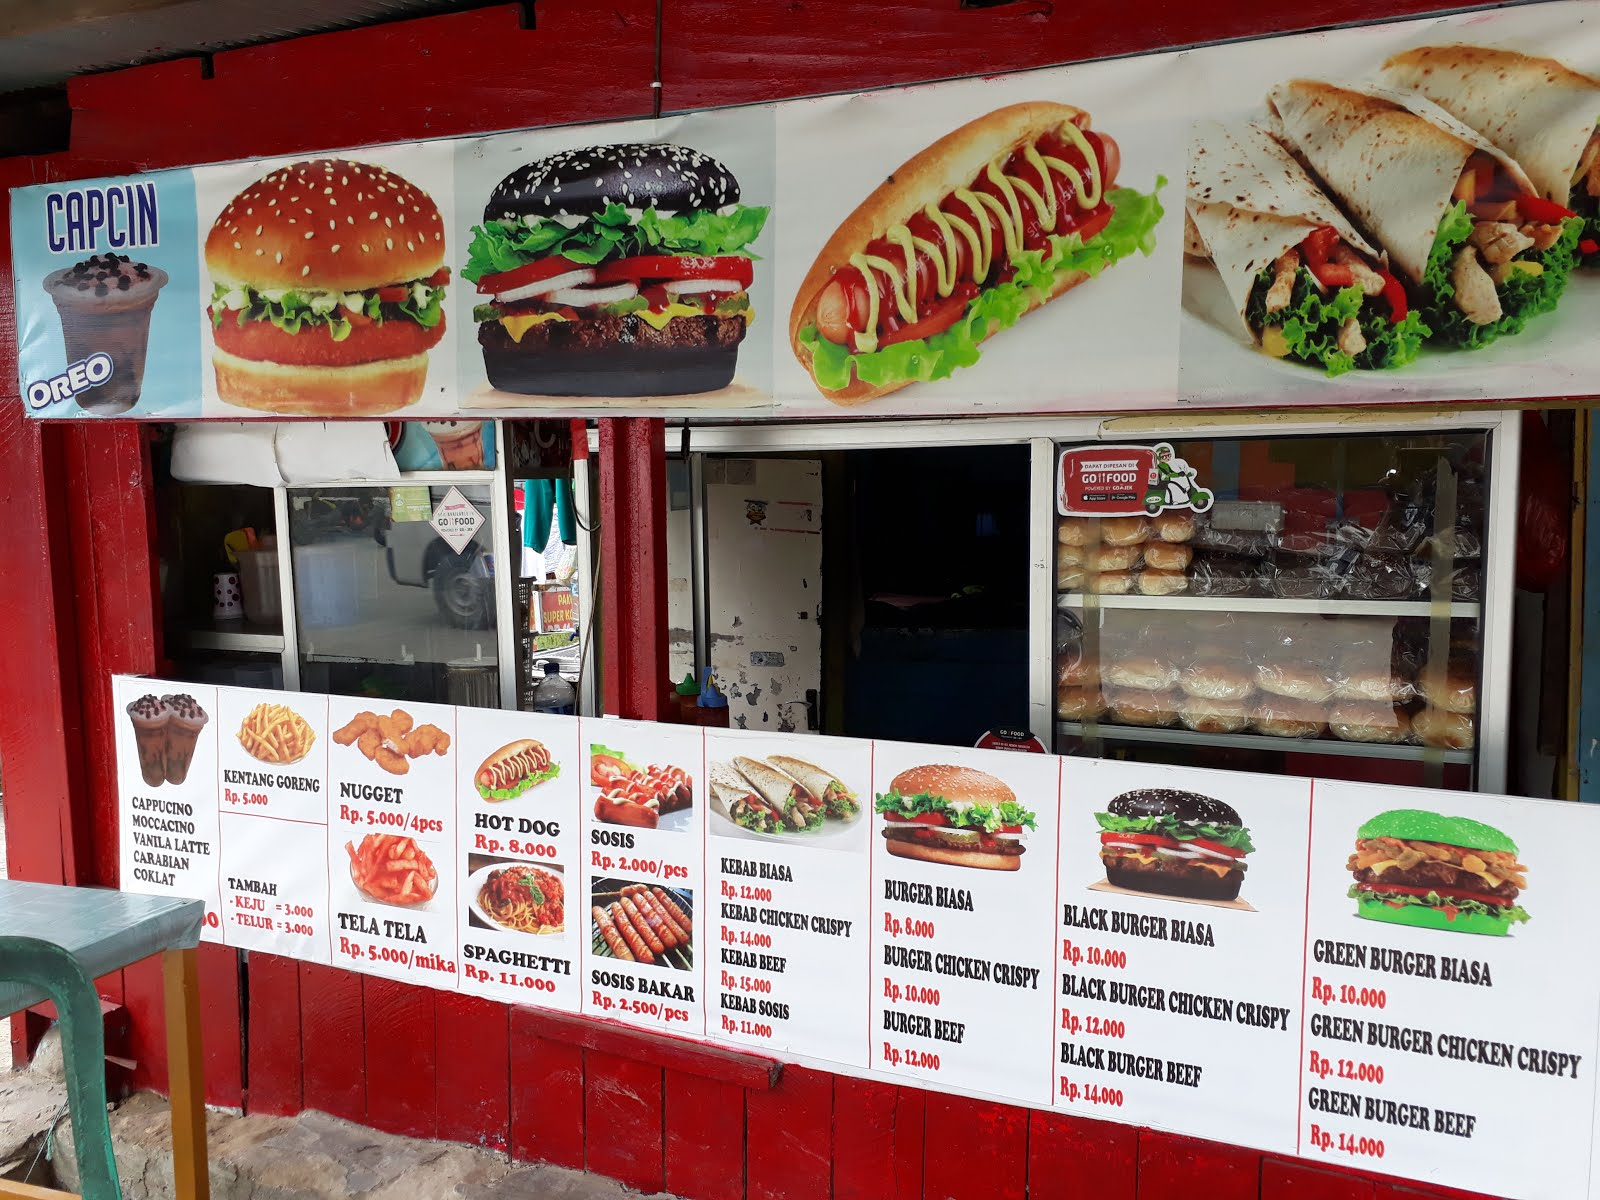
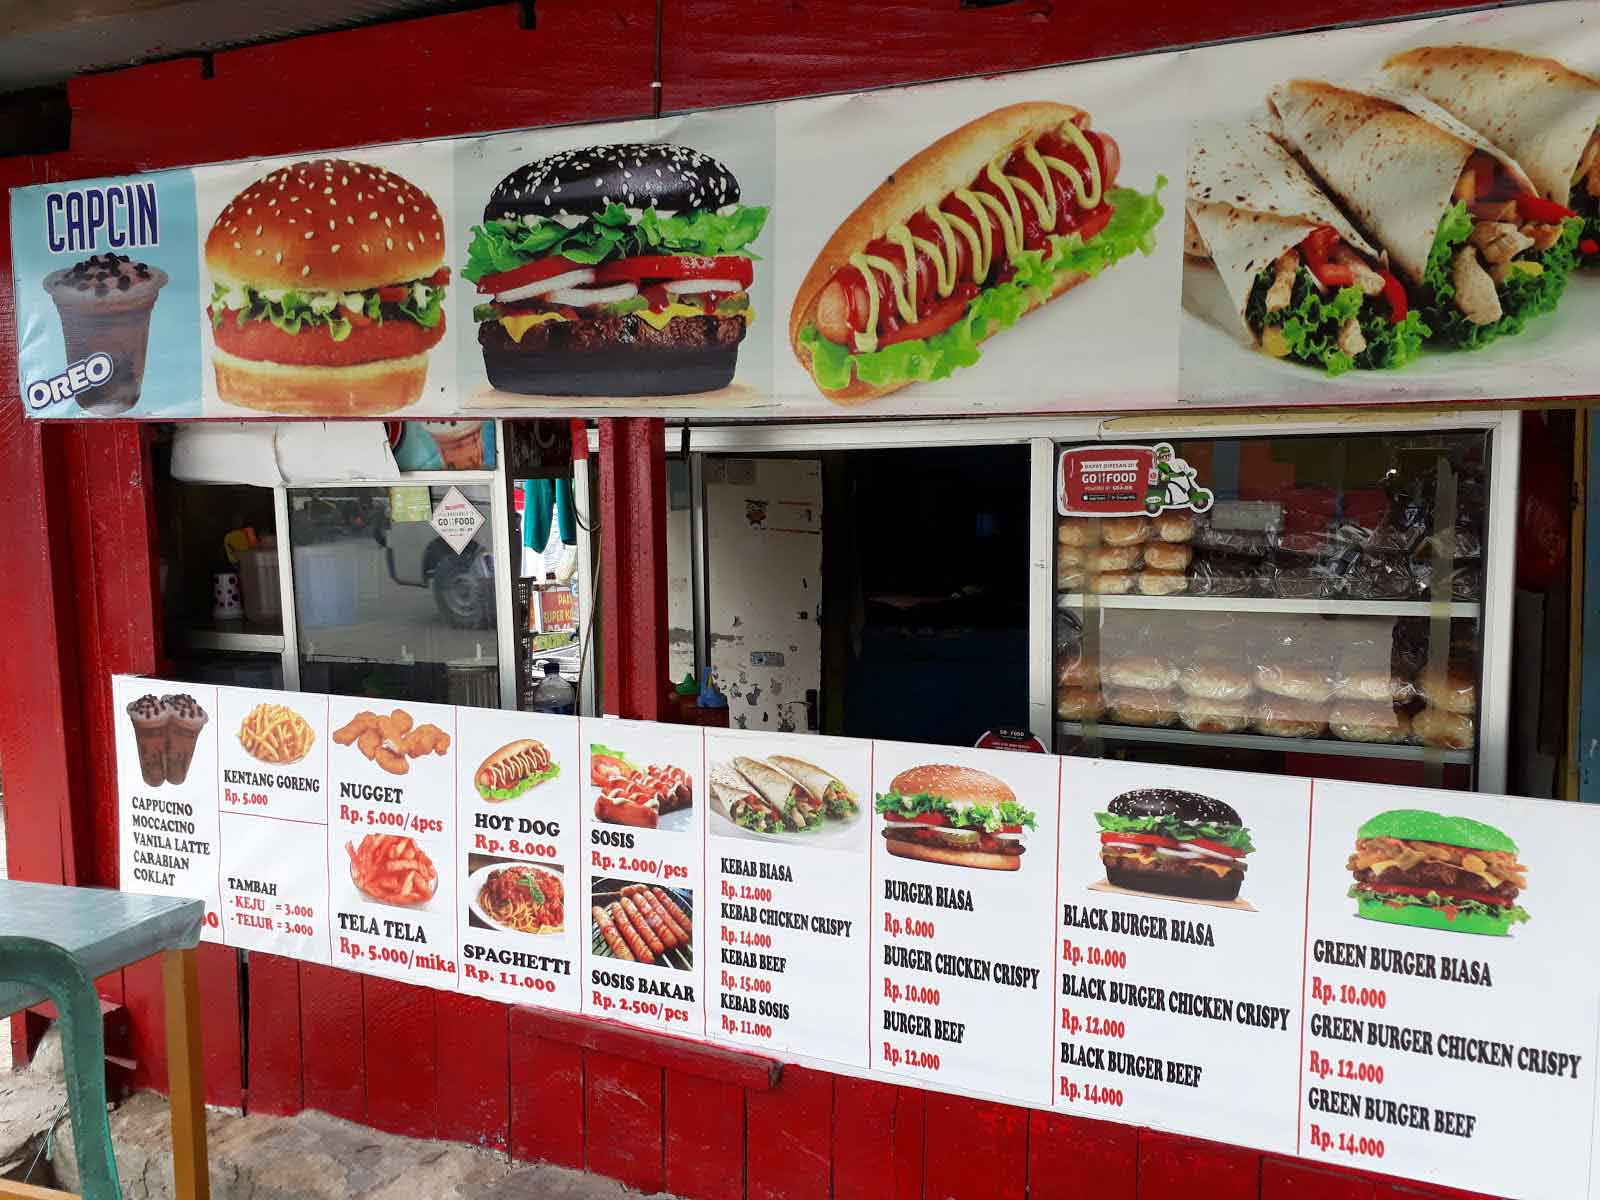
Edit gambar menjadi file size kecil

diff --git a/script/menu.js b/script/menu.js
@@ -1,0 +1,203 @@
+const Allmenu = [
+     {
+          nama : 'cheeseburger',
+          harga : '50.000',
+          path : '../img/menu/cheeseburger.png',
+     },
+     {
+          nama : 'Chiken strips',
+          harga : '35.000',
+          path : '../img/menu/chicken strips.png'
+     }, 
+     {
+          nama : 'Coca cola',
+          harga : '18.636',
+          path : '../img/menu/Coca cola.png'
+     },
+     {
+          nama : 'croissan wich with egg and cheese',
+          harga : '30.000',
+          path :'../img/menu/croissan wich with egg and cheese.png',
+     },
+     {
+          nama : 'croissan wich with sausage and cheese',
+          harga : '25.000',
+          path : '../img/menu/croissan wich with sausage and cheese.png',
+     },
+     {
+          nama : 'croissan wich with sausage,cheese,egg',
+          harga : '36.909',
+          path : '../img/menu/croissan wich with sausage,cheese,egg.png',
+     },
+     {
+          nama : 'double cheeseburgere',
+          harga : '35.000',
+          path : '../img/menu/double cheeseburgere.png',
+     },
+     {
+          nama : 'double whopper with cheese',
+          harga : '66.364',
+          path : '../img/menu/double whopper with cheese.png',
+     },
+     {
+          nama : 'double whopper,no cheese',
+          harga : '61.364',
+          path : '../img/menu/double whopper,no cheese.png',
+     },
+     {
+          nama : 'french fries',
+          harga : '25.000',
+          path : '../img/menu/french fries.png',
+     },
+     {
+          nama : 'french toast stick',
+          harga : '22.000',
+          path : '../img/menu/french toast stick.png',
+     },
+     {
+          nama : 'Hamburger',
+          harga : '22.000',
+          path : '../img/menu/Hamburger.png',
+     },
+     {
+          nama : 'hash brown rounds',
+          harga : '33.000',
+          path : '../img/menu/hash brown rounds.png',
+     },
+     {
+          nama : 'onion rings',
+          harga : '22.000',
+          path : '../img/menu/onion rings.png',
+     },
+     {
+          nama : 'original chicken sandwich',
+          harga : '20.000',
+          path : '../img/menu/original chicken sandwich.png',
+     },
+     {
+          nama : 'premium fish sandwich',
+          harga : '33.309',
+          path : '../img/menu/premium fish sandwich.png',
+     },
+     {
+          nama : 'vanilla shake',
+          harga : '',
+          path : '../img/menu/vanilla shake.png',
+     },
+     {
+          nama : 'whopper with cheese',
+          harga : '54.090',
+          path : '../img/menu/whopper with cheese.png',
+     },
+     {
+          nama : 'whopper,no cheese',
+          harga : '49.090',
+          path : '../img/menu/whopper,no cheese.png',
+     }
+]
+
+const burger = [
+     { 
+          nama : 'cheeseburger',
+          harga : '50.000',
+          path : '../img/menu/cheeseburger.png',
+     },
+     {
+          nama : 'croissan wich with egg and cheese',
+          harga : '30.000',
+          path : '../croissan wich with egg and cheese.png',
+     },
+     {
+          nama : 'croissan wich with sausage and cheese',
+          harga : '25.000',
+          path : '../img/menu/croissan wich with sausage and cheese.png',
+     },
+     {
+          nama : 'croissan wich with sausage,cheese,egg',
+          harga : '36.909',
+          path : '../img/menu/croissan wich with sausage,cheese,egg.png',
+     },
+     {
+          nama : 'double cheeseburgere',
+          harga : '35.000',
+          path : '../img/menu/double cheeseburgere',
+     },
+     {
+          nama : 'double whopper with cheese',
+          harga : '66.364',
+          path : '../img/menu/double whopper with cheese.png',
+     },
+     {
+          nama : 'double whopper,no cheese',
+          harga : '61.364',
+          path : '../img/menu/double whopper,no cheese.png',
+     },
+     {
+          nama : 'Hamburger',
+          harga : '22.000',
+          path : '../img/menu/Hamburger.png',
+     },
+     {
+          nama : 'original chicken sandwich',
+          harga : '20.000',
+          path : '../img/menu/original chicken sandwich.png',
+     },
+     {
+          nama : 'premium fish sandwich',
+          harga : '33.309',
+          path : '../img/menu/premium fish sandwich.png',
+     },
+     {
+          nama : 'whopper with cheese',
+          harga : '54.090',
+          path : '../img/menu/whopper with cheese.png',
+     },
+     {
+          nama : 'whopper,no cheese',
+          harga : '49.090',
+          path : '../img/menu/whopper,no cheese.png',
+     }
+]
+
+const chicken = [
+     {
+          nama : 'chicken strips',
+          harga : '35.000',
+          path : '../img/menu/chicken strips.png',
+     }
+]
+
+const  fries = [
+     {
+          nama : 'french fries',
+          harga : '25.000',
+          path : '../img/menu/french fries.png',
+     },
+     {
+          nama : 'french toast stick',
+          harga : '22.000',
+          path : '../img/menu/french toast stick.png',
+     },
+     {
+          nama : 'onion rings',
+          harga : '22.000',
+          path : '../img/menu/onion rings.png',
+     },
+     {
+          nama : 'hash brown rounds',
+          harga : '33.000',
+          path : '../img/menu/hash brown rounds.png',
+     }
+]
+const drink = [
+     {
+          nama : 'Coca cola',
+          harga : '18.636',
+          path : '../img/menu/Coca cola.png',
+     },
+     {
+          nama : 'vanilla shake',
+          harga : '',
+          path : '../img/menu/vanilla shake.png',
+     }
+]

diff --git a/menu.html b/menu.html
@@ -1,0 +1,63 @@
+<!DOCTYPE html>
+<html lang="en">
+
+<head>
+     <meta charset="UTF-8">
+     <meta name="viewport" content="width=device-width, initial-scale=1.0">
+     <title>Menu</title>
+     <link rel="stylesheet" href="style/desktop.css">
+     <link rel="stylesheet" href="style/mobile.css">
+     <link rel="shortcut icon" href="img/icon/logo/logo.png">
+     <link rel="stylesheet" href="https://cdnjs.cloudflare.com/ajax/libs/font-awesome/4.7.0/css/font-awesome.min.css">
+</head>
+
+<body>
+
+     <header>
+          <!-- Navigation -->
+          <nav>
+               <section class="logo">
+                    <img src="img/icon/logo/logo.jpg" alt="">
+               </section>
+
+               <ul>
+                    <li><a href="index.html">Home</a></li>
+                    <li><a href="menu.html">Menu</a></li>
+                    <li><a href="">Our Story</a></li>
+                    <li><a href="">Sign Up</a></li>
+               </ul>
+
+               <!-- Hamburger menu -->
+               <section class="menu-toggle">
+                    <input type="checkbox">
+                    <span></span>
+                    <span></span>
+                    <span></span>
+               </section>
+          </nav>
+
+          <!-- Main -->
+          <main>
+               <section id="sectionMain">
+                    <p>INI WAKTU YANG BAIK UNTUK RASA BURGER YANG HEBAT</p>
+                    <h1>BURGER <span>WEEK</span></h1>
+               </section>
+               <section>
+                    <img src="img/real/header2.png" alt="home" id="imgHeader">
+               </section>
+          </main>
+
+
+
+          <!-- GSAP -->
+    <script src="https://cdnjs.cloudflare.com/ajax/libs/gsap/2.1.3/TweenMax.min.js"></script>
+
+    <!-- //ScrollMagic -->
+    <script src="https://cdnjs.cloudflare.com/ajax/libs/ScrollMagic/2.0.7/ScrollMagic.min.js"></script>
+    <script src="https://cdnjs.cloudflare.com/ajax/libs/ScrollMagic/2.0.5/plugins/debug.addIndicators.min.js"></script>
+    <script src="https://cdnjs.cloudflare.com/ajax/libs/ScrollMagic/2.0.7/plugins/animation.gsap.js"></script>
+
+    <script src="script/script.js"></script>
+    <script src="script/animatePlugin.js"></script>
+</body>
+</html>

diff --git a/index.html b/index.html
@@ -19,8 +19,8 @@
                </section>
      
                <ul>
-                    <li><a href="">Home</a></li>
-                    <li><a href="">Menu</a></li>
+                    <li><a href="index.html">Home</a></li>
+                    <li><a href="menu.html">Menu</a></li>
                     <li><a href="">Our Story</a></li>
                     <li><a href="">Login</a></li>
                </ul>
